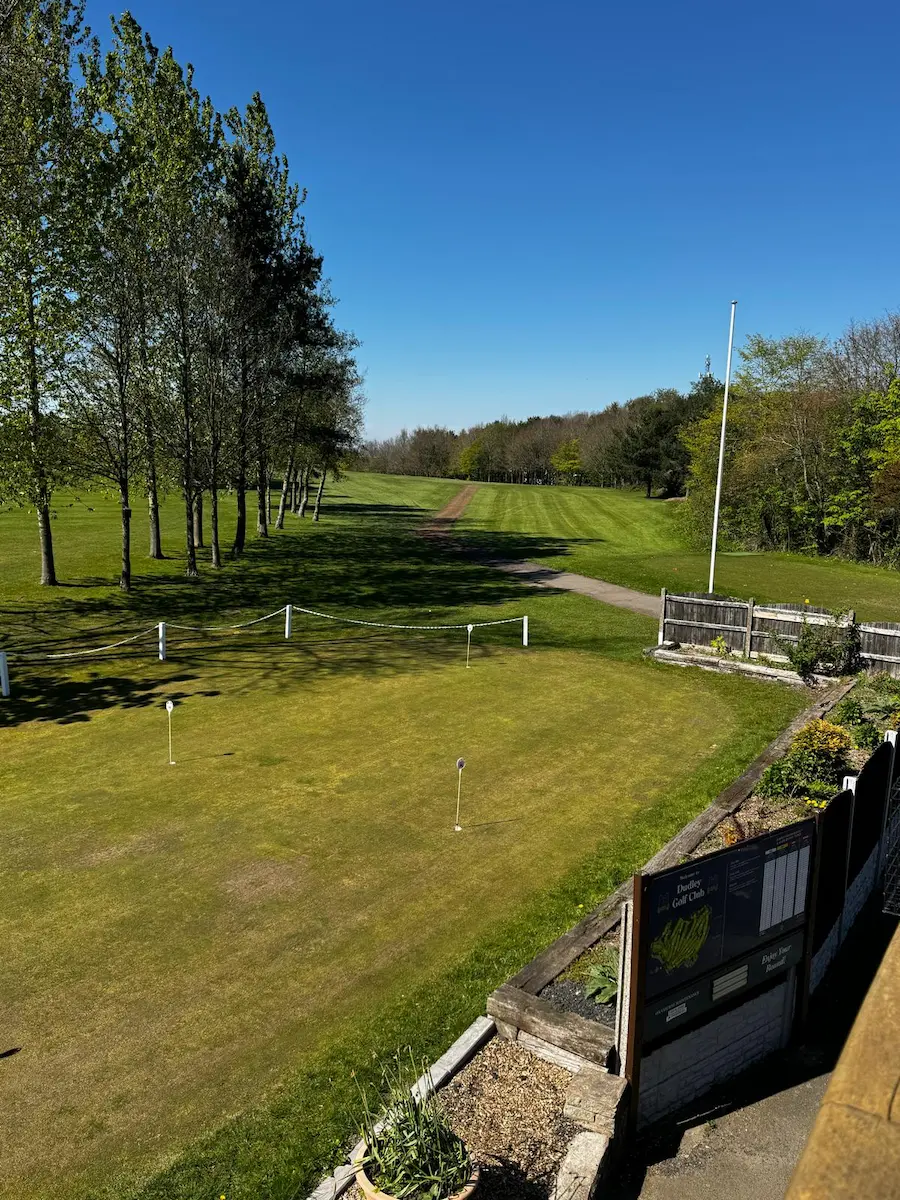
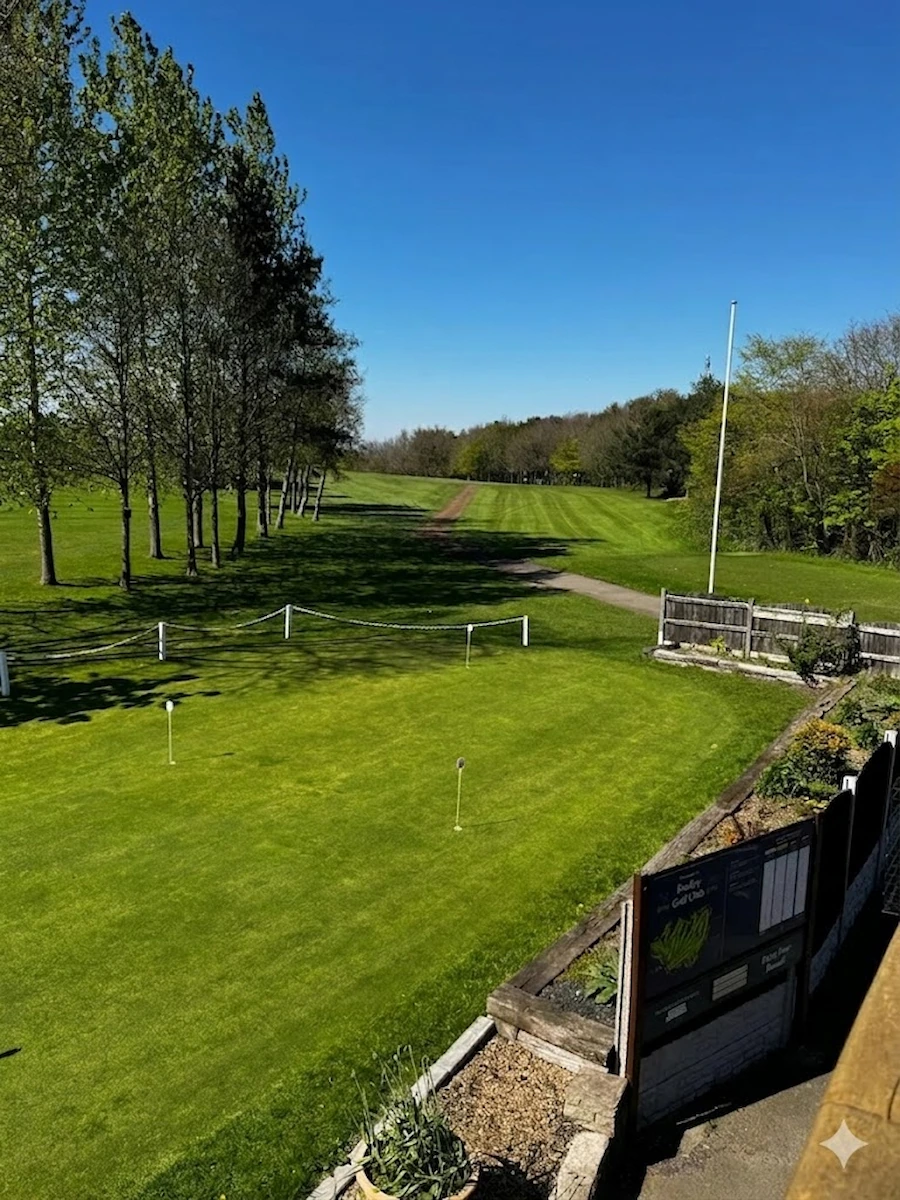
UPDATE

diff --git a/course.html b/course.html
@@ -621,7 +621,7 @@
     <section id="course" class="bg-[#132419] px-4 py-16 md:py-20">
         <div class="max-w-7xl mx-auto">
 
-            <!-- TOP: LITTLE ASTON STYLE SELECTOR -->
+            <!-- TOP: DUDLEY STYLE SELECTOR -->
             <div class="bg-[#f9f7f2] p-6 md:p-8 rounded-sm border border-[#C5A367]/20 shadow-2xl mb-0">
                 <div
                     class="flex flex-col lg:flex-row lg:items-end lg:justify-between gap-6 border-b border-[#132419]/10 pb-6 mb-6">